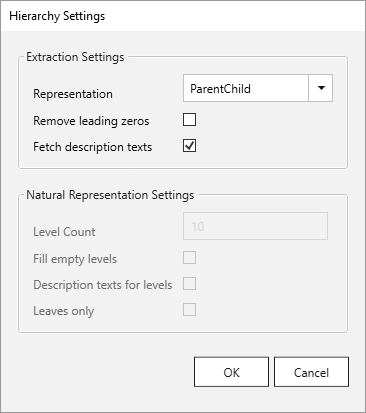
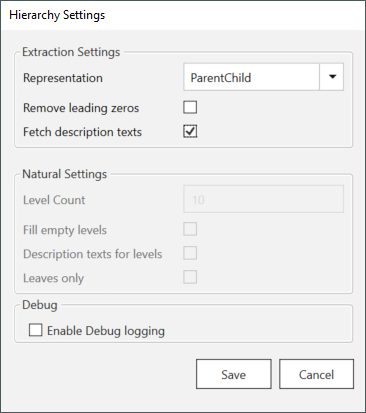
extraction settings: enable debug logs

diff --git a/_includes/_content/en/bw-hierarchies/hierarchies-extraction-settings.md b/_includes/_content/en/bw-hierarchies/hierarchies-extraction-settings.md
@@ -39,3 +39,7 @@ The following example depicts the previously shown hierarchy with the activated 
 Sets the output field *LevelTextN* for each field *LevelN* containing the text based on the system language settings.<br>
 ![Hierarchy-Description-Texts](/img/content/Hierarchy-description-texts.png){:class="img-responsive"}
 
+### Debug
+
+**Enable Debug Logging:**<br>
+Adds more detailed logs for the Hierarchy component to the extraction logs. Activate **Enable Debug Logging** only when necessary e.g., upon request of the support team.

diff --git a/_includes/_content/de/bw-hierarchien/hierarchie-extraktionseinstellungen.md b/_includes/_content/de/bw-hierarchien/hierarchie-extraktionseinstellungen.md
@@ -50,3 +50,8 @@ Das folgende Beispiel demonstriert die zuvor gezeigte Hierarchie mit der aktivie
 **Description texts for levels**<br>
 Setzt das Output-Feld *LevelTextN* für jedes Feld *LevelN* , welches den Text beinhaltet, der auf den Einstellungen der Systemsprache basiert.
 
+### Debug
+
+**Enable Debug Logging:**<br>
+Fügt den Extraktions-Logs detailierte Logs für die Hierarchy-Komponente hinzu.
+Aktivieren Sie **Enable Debug Logging** nur bei Bedarf, z.B. auf Anfrage des Support-Teams.

diff --git a/content/_en/xtract-universal/bw-hierarchies/hierarchies-extraction-settings.md b/content/_en/xtract-universal/bw-hierarchies/hierarchies-extraction-settings.md
@@ -11,4 +11,5 @@ lang: en_GB
 old_url: /Xtract-Universal-EN/default.aspx?pageid=hierarchies-extraction-settings
 ---
 
+
 {% include _content/en/bw-hierarchies/hierarchies-extraction-settings.md %}
